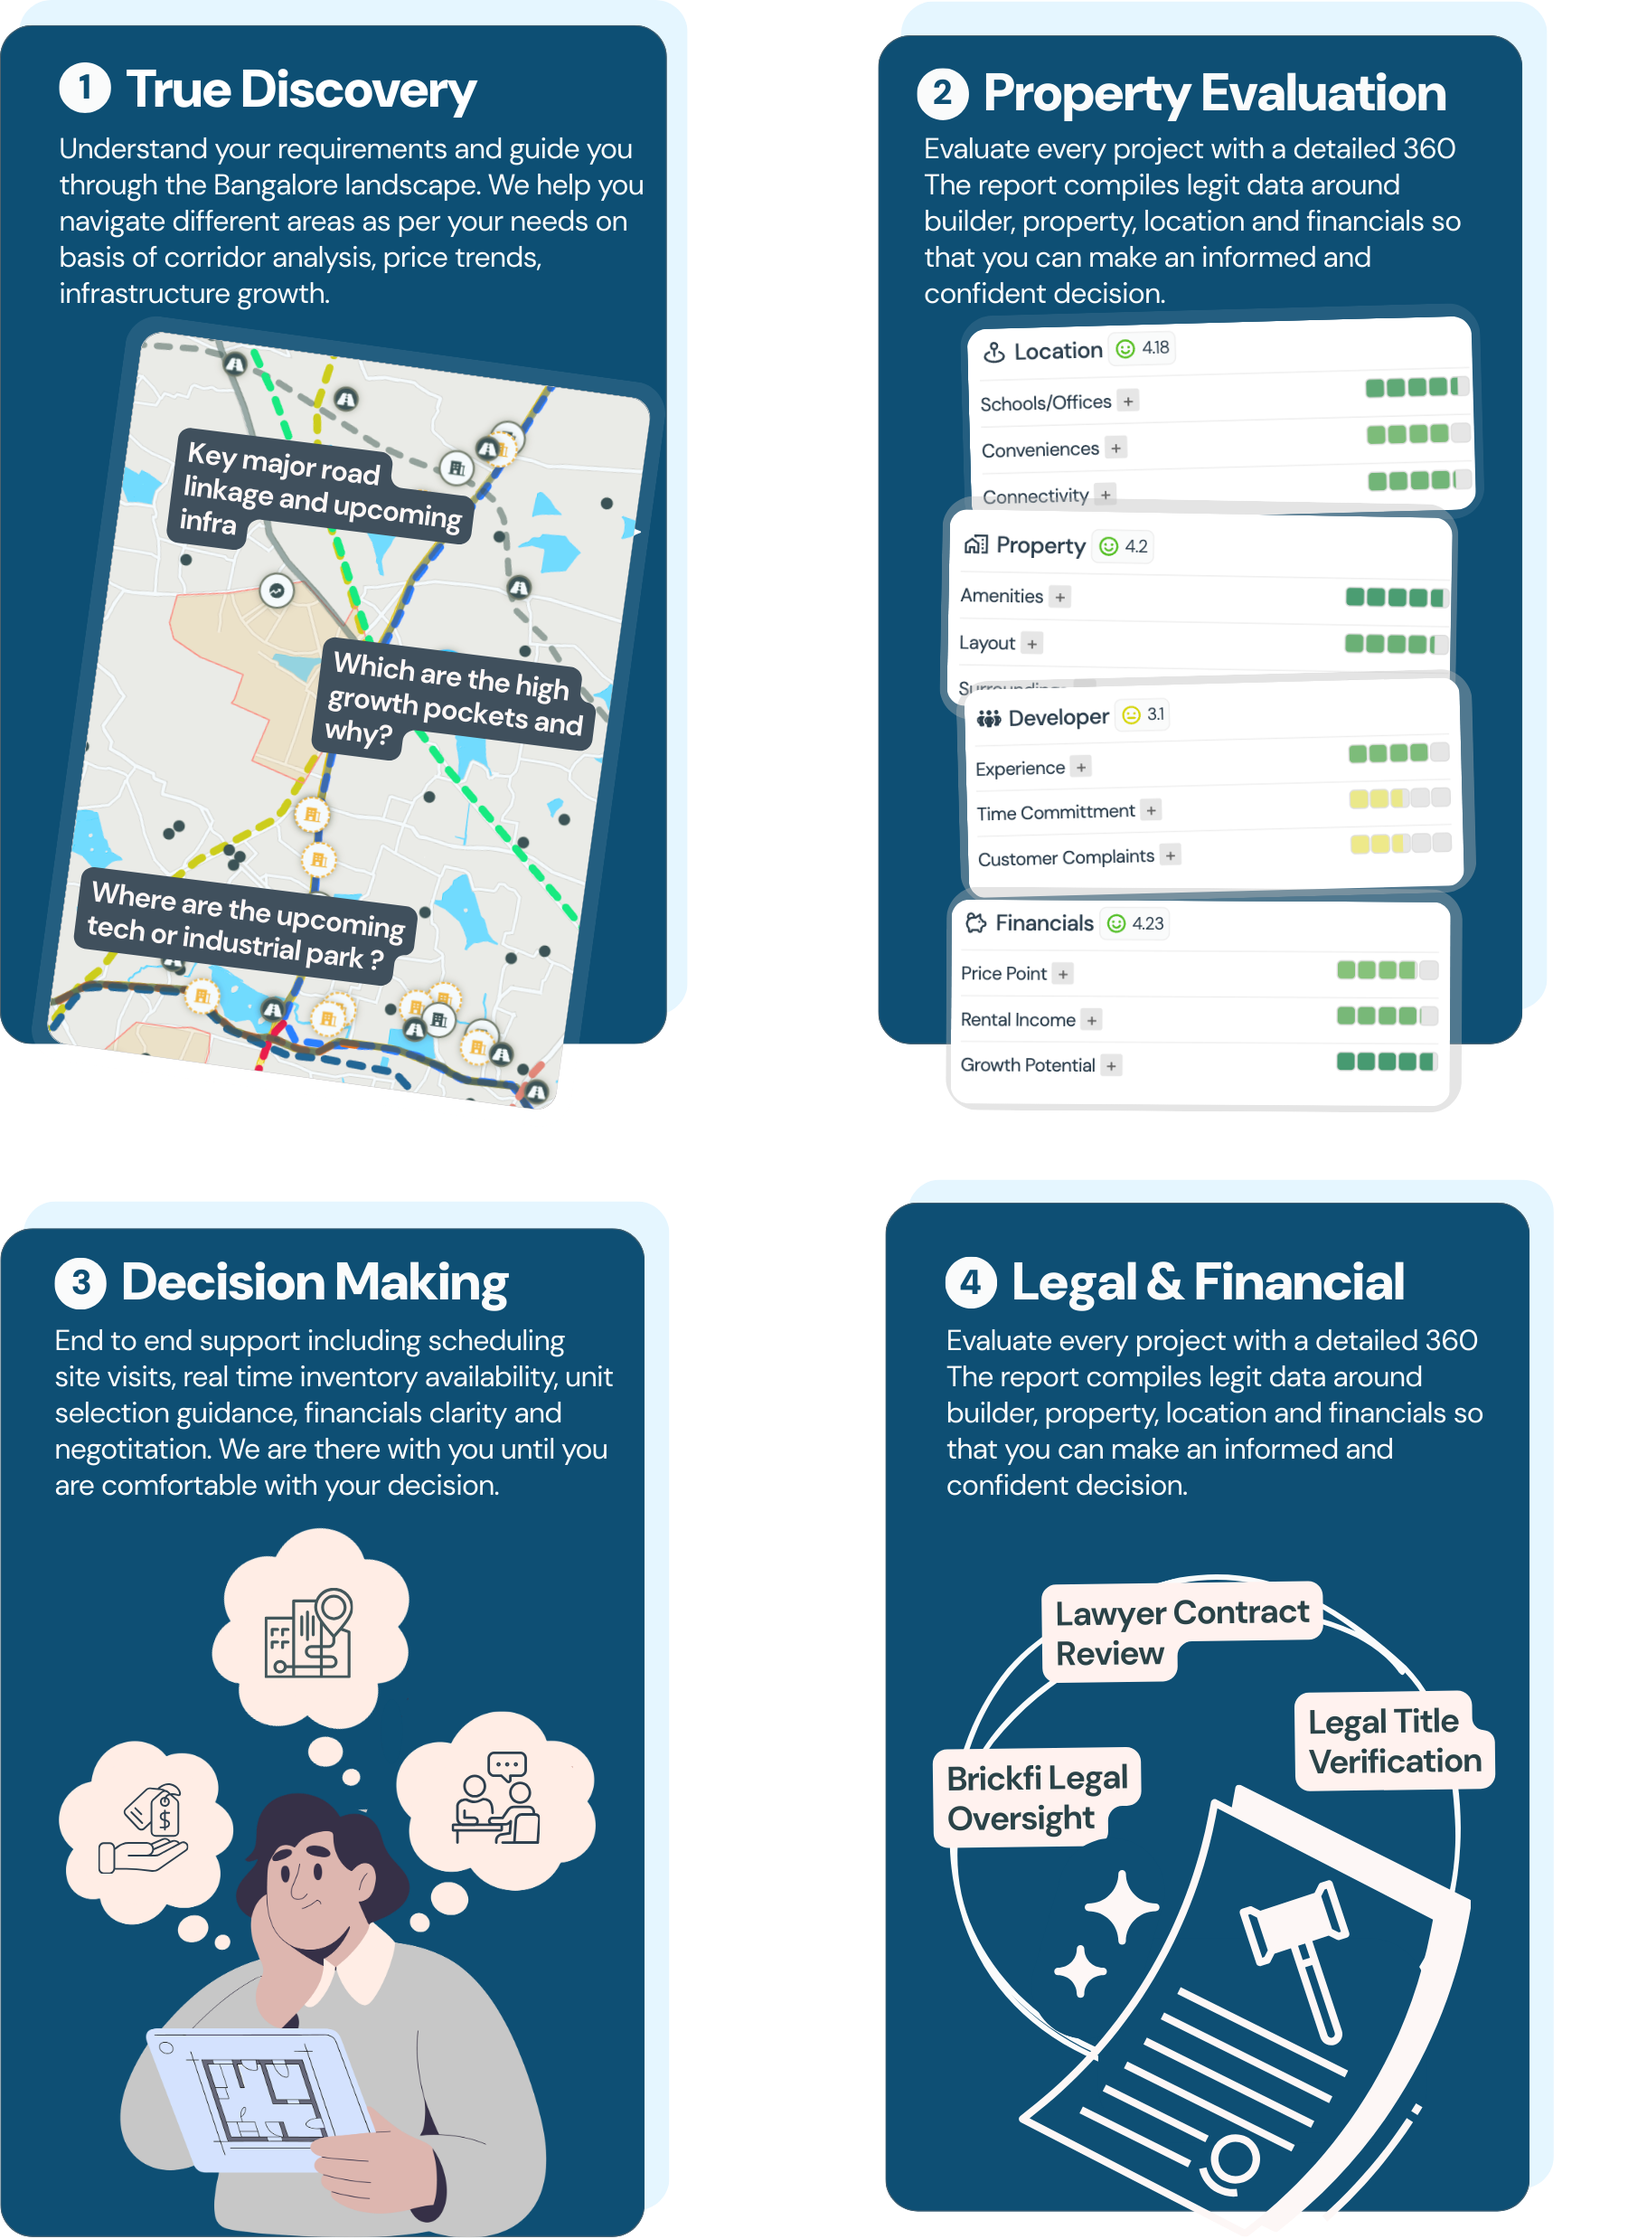
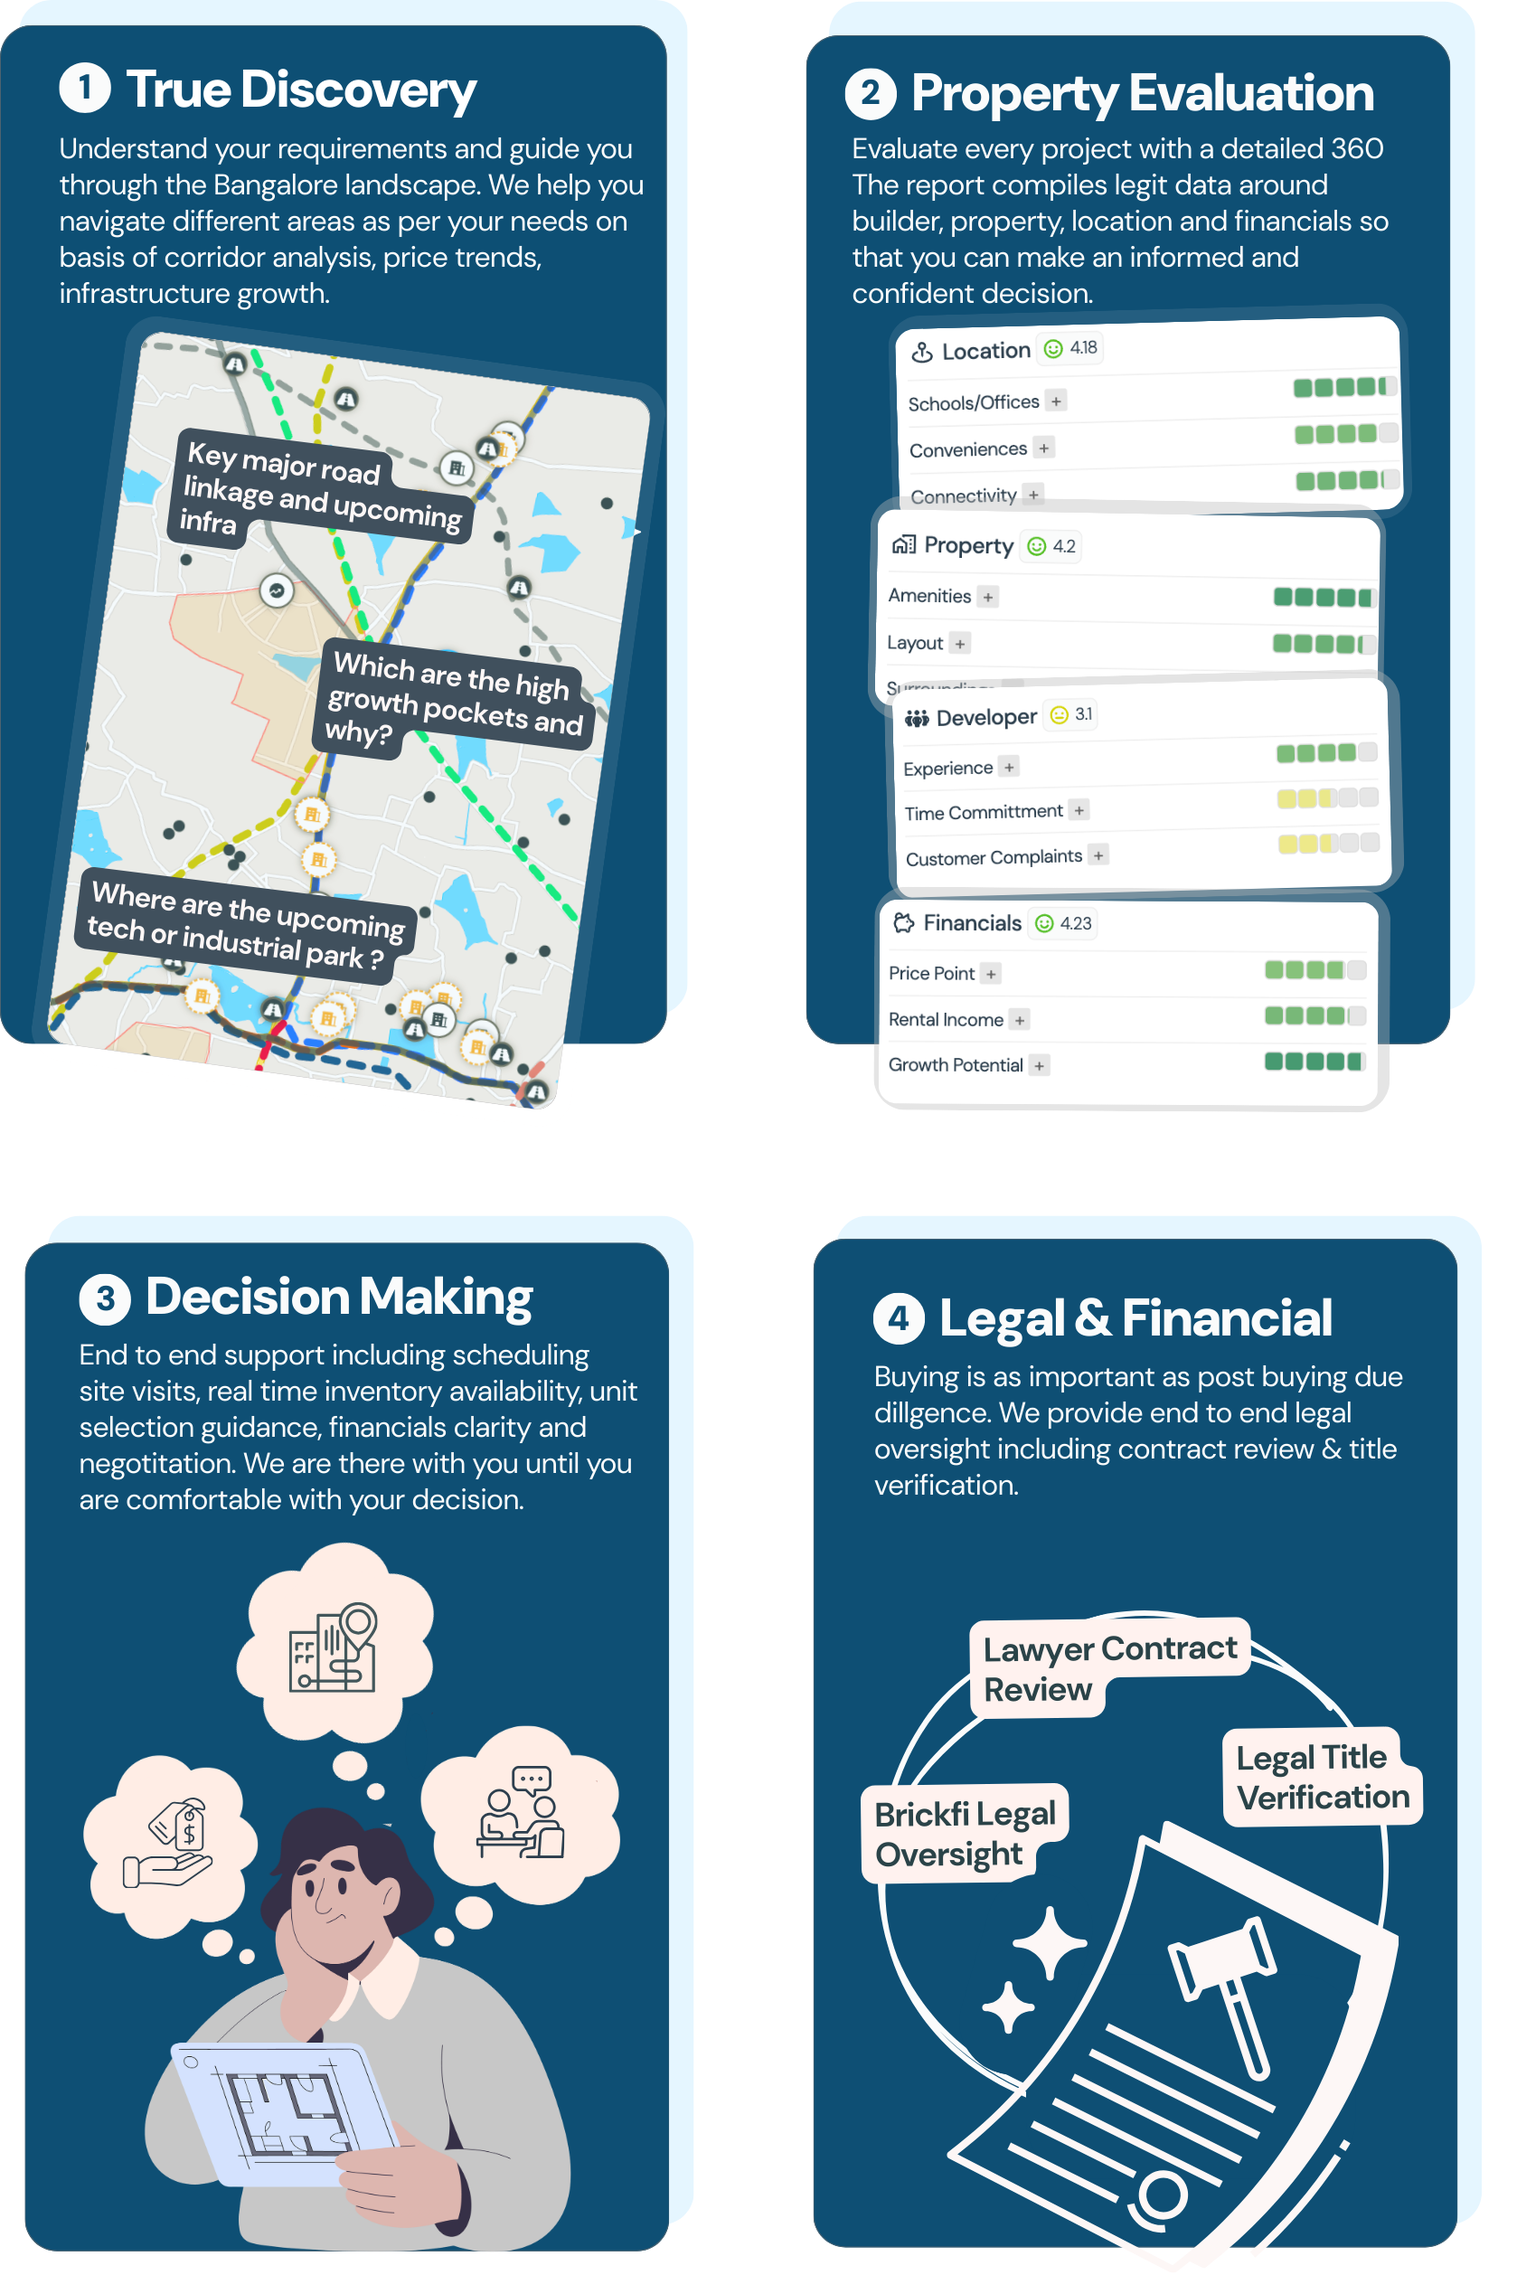
updating landinng

diff --git a/src/custom-pages/landing/brick-assist-landing-v2.tsx b/src/custom-pages/landing/brick-assist-landing-v2.tsx
@@ -548,8 +548,8 @@ export default function BrickAssistLandingV2() {
           centerSectionTextAlign: "left",
           verticalPadding: 100,
           textColor: COLORS.LANDING.LIGHT_PINK,
-          mainImgUrl: "/images/landing/brickassistv2/7.png",
-          primaryImageSize: "60%",
+          mainImgUrl: isMobile ? "/images/landing/brickassistv2/7-mob.png" : "/images/landing/brickassistv2/7.png",
+          primaryImageSize: isMobile ? "90%" :"60%",
         }}
       ></SectionCenter>
       <SectionLeft
